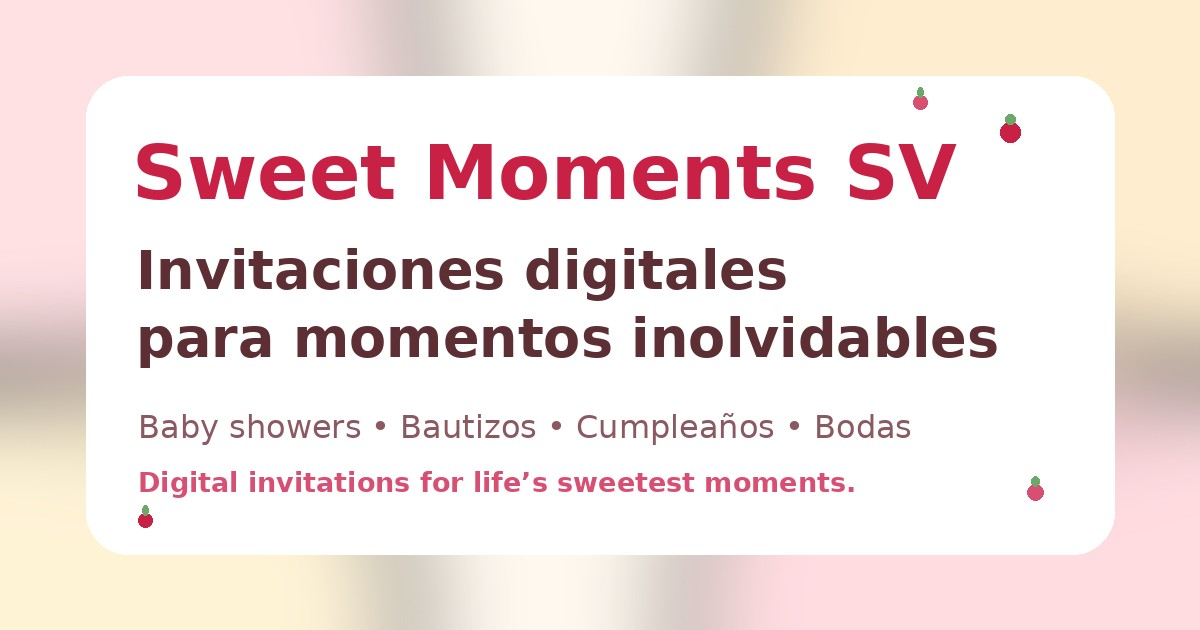
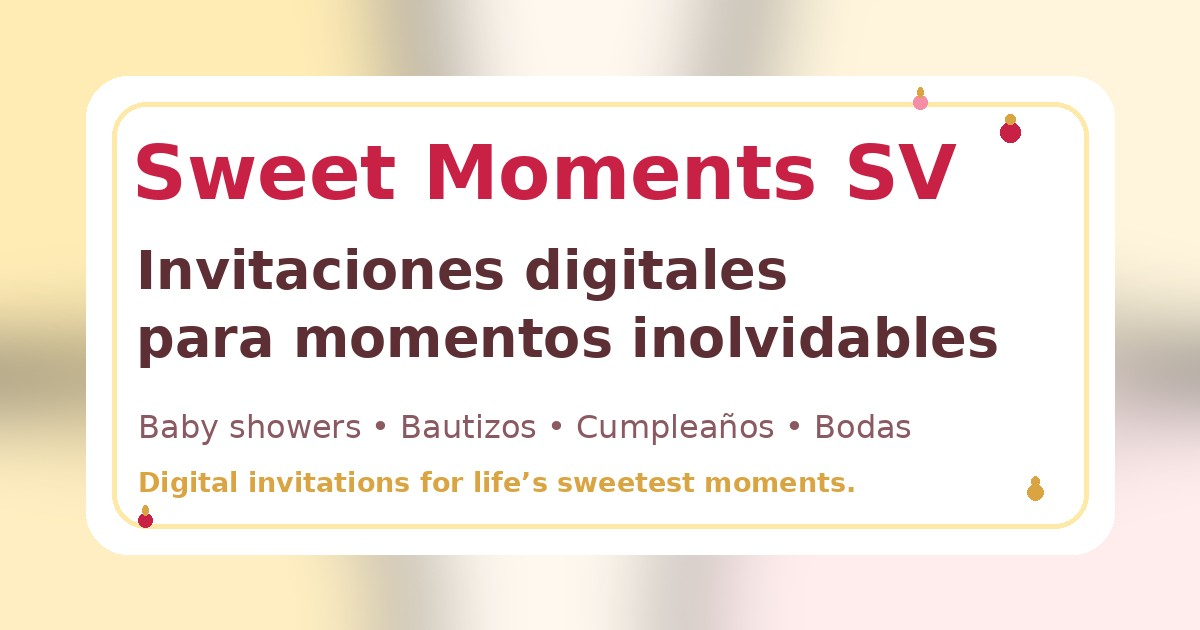
Update landing page pastel yellow palette

Changed region(s): [[0.0, 0.0, 0.8942, 0.8444], [0.8325, 0.181, 0.925, 0.8143]]

diff --git a/styles.css b/styles.css
@@ -1,6 +1,8 @@
 :root {
   --cream: #fff8ef;
-  --cream-2: #fff1df;
+  --cream-2: #fff4d6;
+  --pastel-yellow: #ffe9a8;
+  --pastel-yellow-soft: #fff3c7;
   --pink: #f58ca8;
   --soft-pink: #ffe4ec;
   --berry: #c92145;
@@ -27,8 +29,9 @@ body {
   color: var(--text);
   background:
     radial-gradient(circle at top left, rgba(255,255,255,0.95), transparent 30rem),
-    radial-gradient(circle at 85% 8%, rgba(245,140,168,0.34), transparent 24rem),
-    linear-gradient(145deg, #fff8ef 0%, #ffe4e9 56%, #fff4df 100%);
+    radial-gradient(circle at 85% 8%, rgba(255,233,168,0.56), transparent 24rem),
+    radial-gradient(circle at 18% 78%, rgba(245,140,168,0.22), transparent 22rem),
+    linear-gradient(145deg, #fff8ef 0%, #fff3c7 46%, #ffe4ec 100%);
 }
 
 body::before {
@@ -38,7 +41,7 @@ body::before {
   pointer-events: none;
   background-image:
     radial-gradient(circle at 18% 14%, rgba(201,33,69,0.11) 0 0.42rem, transparent 0.45rem),
-    radial-gradient(circle at 76% 18%, rgba(217,164,65,0.16) 0 0.34rem, transparent 0.37rem),
+    radial-gradient(circle at 76% 18%, rgba(217,164,65,0.2) 0 0.34rem, transparent 0.37rem),
     radial-gradient(circle at 88% 72%, rgba(201,33,69,0.1) 0 0.48rem, transparent 0.5rem),
     radial-gradient(circle at 12% 78%, rgba(245,140,168,0.18) 0 0.52rem, transparent 0.55rem);
   background-size: 13rem 13rem;
@@ -51,7 +54,7 @@ body::before {
   inset: 0;
   pointer-events: none;
   z-index: -1;
-  background: linear-gradient(135deg, transparent 0 48%, rgba(255,255,255,0.42) 48% 52%, transparent 52% 100%);
+  background: linear-gradient(135deg, transparent 0 48%, rgba(255,255,255,0.48) 48% 52%, transparent 52% 100%);
   background-size: 28px 28px;
   opacity: 0.16;
 }
@@ -66,7 +69,7 @@ body::before {
   gap: 12px;
   border: 1px solid rgba(255,255,255,0.68);
   border-radius: 999px;
-  background: rgba(255,255,255,0.58);
+  background: rgba(255,248,239,0.72);
   backdrop-filter: blur(16px) saturate(1.2);
   -webkit-backdrop-filter: blur(16px) saturate(1.2);
   box-shadow: 0 18px 48px rgba(160,53,82,0.12);
@@ -127,7 +130,7 @@ nav a {
   gap: 26px;
   padding: clamp(34px, 6vw, 72px);
   border-radius: 42px;
-  background: linear-gradient(145deg, rgba(255,255,255,0.78), rgba(255,238,244,0.58));
+  background: linear-gradient(145deg, rgba(255,255,255,0.8), rgba(255,243,199,0.62), rgba(255,228,236,0.45));
   border: 1px solid rgba(255,255,255,0.72);
   box-shadow: var(--shadow);
   overflow: hidden;
@@ -235,7 +238,7 @@ h3 {
   text-align: center;
   background:
     radial-gradient(circle at top, rgba(255,255,255,0.92), transparent 16rem),
-    linear-gradient(160deg, #fff8ef, #ffe0e8 55%, #fff2d8);
+    linear-gradient(160deg, #fff8ef, #fff3c7 48%, #ffe4ec);
 }
 
 .pill {
@@ -263,7 +266,7 @@ h3 {
   margin: 22px auto;
   border-radius: 28px;
   background:
-    linear-gradient(145deg, rgba(255,255,255,0.72), rgba(255,222,232,0.58)),
+    linear-gradient(145deg, rgba(255,255,255,0.72), rgba(255,233,168,0.42), rgba(255,222,232,0.42)),
     url("https://babyraquel.sweetmomentssv.com/assets/raquel-share-preview.jpg") center/cover;
   border: 7px solid rgba(255,255,255,0.8);
   box-shadow: 0 18px 42px rgba(160,53,82,0.18);
@@ -333,7 +336,7 @@ h3 {
   width: 52px;
   height: 52px;
   border-radius: 18px;
-  background: #fff0f4;
+  background: #fff3c7;
   font-size: 1.5rem;
 }
 
